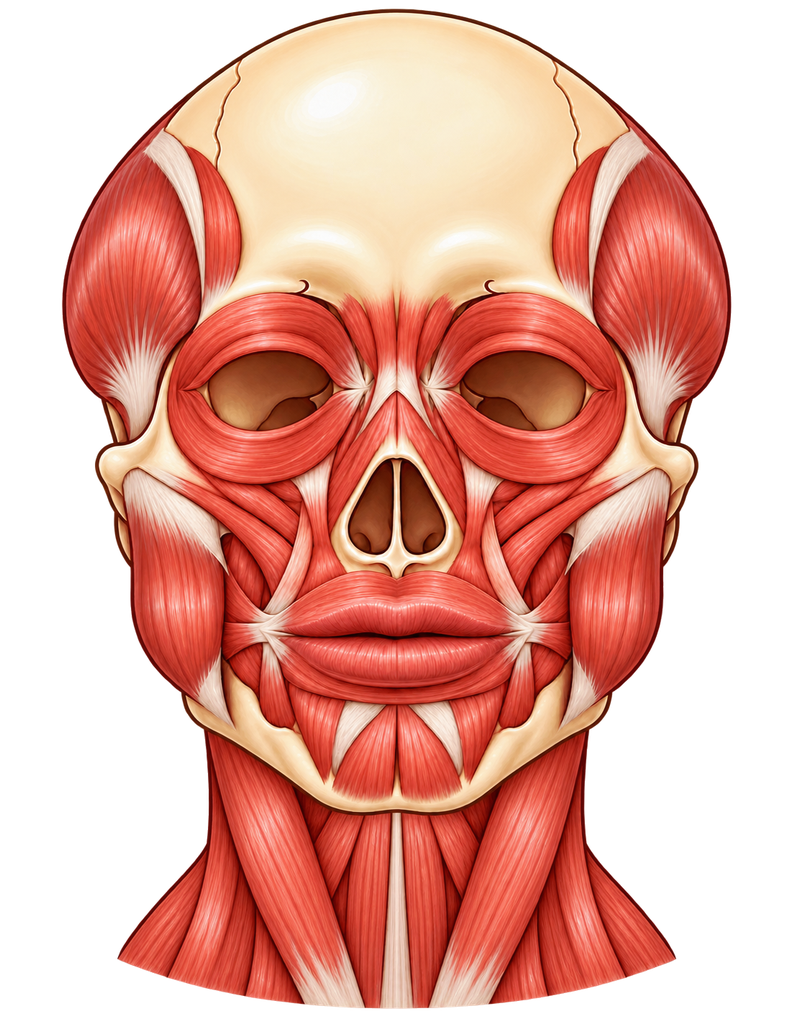
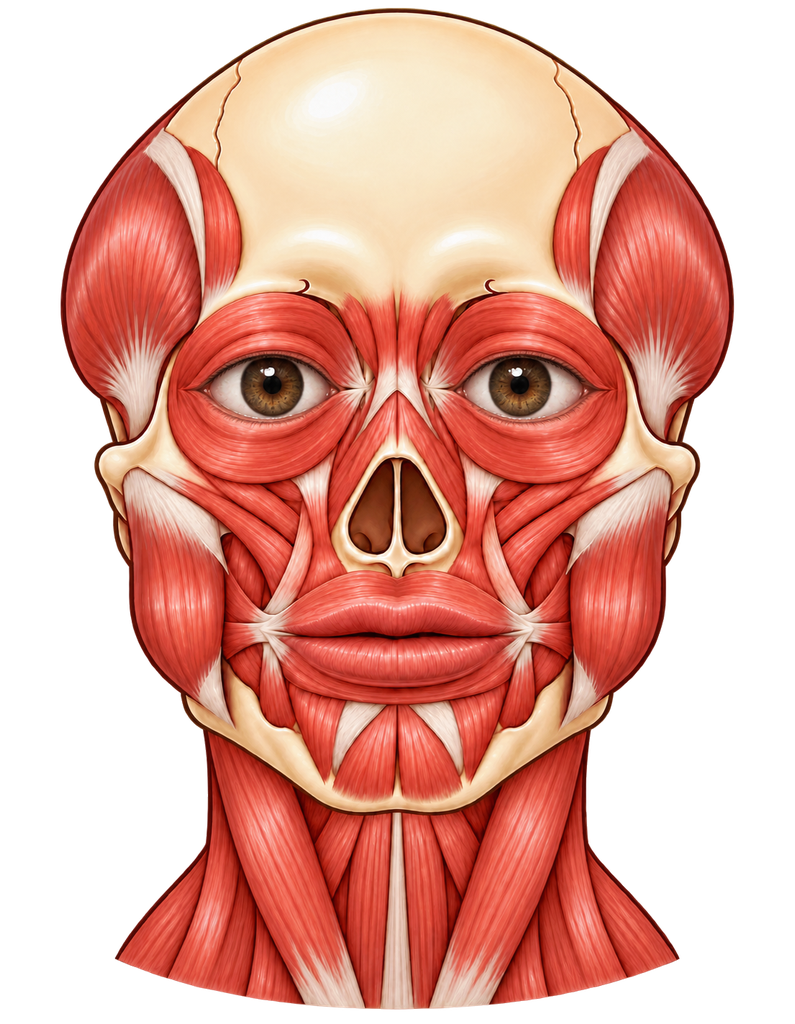
Versão 3.3: adicionar olhos ao crânio muscular

diff --git a/index.html b/index.html
@@ -3,7 +3,7 @@
 <head>
   <meta charset="utf-8">
   <meta name="viewport" content="width=device-width,initial-scale=1,viewport-fit=cover">
-  <title>Anatomia Mágica 3.2</title>
+  <title>Anatomia Mágica 3.3</title>
   <style>
     * { box-sizing: border-box; }
     body { margin: 0; background: #101827; color: #fff; font: 16px system-ui, sans-serif; }
@@ -34,7 +34,7 @@
 </head>
 <body>
   <header>
-    <div><h1>🫀 Anatomia Mágica</h1><small>Versão 3.2 · órgãos, ossos e músculos</small></div>
+    <div><h1>🫀 Anatomia Mágica</h1><small>Versão 3.3 · órgãos, ossos e músculos</small></div>
     <span id="status" role="status">Modo demonstração</span>
   </header>
   <div class="stage demo" id="stage">
@@ -102,7 +102,7 @@
     <p id="help-text">As posições são esquemáticas e aproximadas. Ao aproximar a câmera, as imagens acompanham a escala da cabeça, dos ombros ou dos quadris que estiverem visíveis. Se nenhum desses pontos for reconhecido, afaste um pouco a câmera. O app mantém a última vista quando a pessoa está de lado; se a detecção não corresponder à posição, escolha frente ou costas manualmente. A câmera é processada no aparelho.</p>
   </div>
   <script src="ossos/rig.js?v=2.0.2"></script>
-  <script src="musculos/rig.js?v=3.2"></script>
+  <script src="musculos/rig.js?v=3.3"></script>
   <script>
     const $ = selector => document.querySelector(selector);
     const stage = $('#stage');
@@ -313,7 +313,7 @@
       const entry = { image: new Image(), ready: false, error: false, crop: null };
       entry.image.onload = () => { entry.crop = imageCrop(entry.image); entry.ready = true; draw(performance.now()); };
       entry.image.onerror = () => { entry.error = true; console.error('Músculo ausente:', entry.image.src); draw(performance.now()); };
-      entry.image.src = `musculos/vistas/${region}/${viewFiles[view]}?v=3.2`;
+      entry.image.src = `musculos/vistas/${region}/${viewFiles[view]}?v=3.3`;
       muscleCache.set(key, entry);
       return entry;
     }

diff --git a/musculos/rascunhos/previsualizar.html b/musculos/rascunhos/previsualizar.html
@@ -23,11 +23,11 @@
 <body>
   <h1>Imagens musculares — prévia de trabalho</h1>
   <p>Dezoito imagens, com vista de frente e de costas para cada uma das nove regiões. O fundo quadriculado revela quais peças têm transparência suficiente para aparecer sobre a câmera.</p>
-  <div class="note">A cabeça mostra a nova peça da versão 3.2, com músculos integrados ao crânio. Os outros grupos mostram os originais gerados para a versão 3.1. O aplicativo usa cópias otimizadas em <code>musculos/vistas/</code>.</div>
+  <div class="note">A cabeça mostra a frente da versão 3.3, agora com olhos, e as costas preservadas da 3.2. Os outros grupos mostram os originais da 3.1. O aplicativo usa cópias otimizadas em <code>musculos/vistas/</code>.</div>
   <main class="grid" id="grid"></main>
   <script>
     const regions=[
-      ['rosto','Cabeça e crânio','nova peça 3.2'],
+      ['rosto','Cabeça e crânio','olhos na frente · 3.3'],
       ['torax','Tórax','transparência confirmada'],
       ['abdome','Abdome','revisar encaixe'],
       ['braco','Braço','transparência confirmada'],
@@ -45,7 +45,9 @@
       const pair=document.createElement('div');pair.className='pair';
       for(const [file,label] of [['01-frente.png','Frente'],['05-costas.png','Costas']]){
         const figure=document.createElement('figure'),img=document.createElement('img'),caption=document.createElement('figcaption');
-        img.src=folder==='rosto' ? `cranio-v3.2/${file}` : `vistas/${folder}/${file}`;
+        img.src=folder==='rosto'
+          ? (file==='01-frente.png' ? `cranio-v3.3/${file}` : `cranio-v3.2/${file}`)
+          : `vistas/${folder}/${file}`;
         img.alt=`${name}, vista de ${label.toLowerCase()}`;img.loading='lazy';caption.textContent=label;
         figure.append(img,caption);pair.append(figure);
       }

diff --git a/README.md b/README.md
@@ -4,9 +4,11 @@ Aplicativo web educativo de anatomia em realidade aumentada. Usa a câmera do ce
 
 ## Versão atual
 
-**3.2 (teste local concluído; validação com a câmera do celular pendente)**
+**3.3 (teste local concluído; validação com a câmera do celular pendente)**
 
-O arquivo `index.html` da raiz é a versão ativa. A versão 3.1 permanece preservada em `versoes/v3.1/` e no ZIP respectivo. As versões anteriores continuam disponíveis nas cópias locais em `versoes/` e `pacotes/` e no histórico do GitHub.
+O arquivo `index.html` da raiz é a versão ativa. A versão 3.2 permanece preservada em `versoes/v3.2/` e no ZIP respectivo. As versões anteriores continuam disponíveis nas cópias locais em `versoes/` e `pacotes/` e no histórico do GitHub.
+
+A versão 3.3 coloca olhos na imagem frontal do crânio muscular. A vista posterior e o posicionamento da cabeça permanecem como na 3.2.
 
 A versão 3.2 refaz a peça muscular da cabeça nas duas vistas: os músculos da face e da nuca agora aparecem sobre o crânio, com um pescoço curto ligando a peça ao tronco. O posicionamento sobre o rosto foi ajustado para incluir o topo da cabeça. As outras oito regiões musculares, os órgãos e os ossos permanecem disponíveis.
 
@@ -53,4 +55,4 @@ Para conferir os 13 órgãos e suas vistas, execute `node tests/vistas.test.cjs`
 
 A câmera é processada no próprio aparelho pelo código do navegador. O aplicativo não possui contas, login ou servidor de armazenamento de imagens.
 
-As posições anatômicas são educativas e aproximadas. O rastreamento do corpo não mede a abertura da boca nem a contração muscular; a mandíbula tem controle manual, e os músculos seguem a posição dos segmentos corporais. Ainda é preciso conferir alinhamento, escala e desempenho da versão 3.2 com câmera real em um celular. O aplicativo não é uma ferramenta médica.
+As posições anatômicas são educativas e aproximadas. O rastreamento do corpo não mede a abertura da boca nem a contração muscular; a mandíbula tem controle manual, e os músculos seguem a posição dos segmentos corporais. Ainda é preciso conferir alinhamento, escala e desempenho da versão 3.3 com câmera real em um celular. O aplicativo não é uma ferramenta médica.

diff --git a/musculos/README.md b/musculos/README.md
@@ -1,6 +1,6 @@
-# Músculos — Anatomia Mágica 3.2
+# Músculos — Anatomia Mágica 3.3
 
-O modo Músculos usa 18 ilustrações anatômicas, uma vista frontal e uma posterior para cada uma das nove regiões: cabeça, tórax, abdome, braço, antebraço, coxa, perna, mão e pé. Na versão 3.2, a peça da cabeça foi refeita para mostrar os músculos integrados ao crânio e ligados por um pescoço curto ao tronco. As imagens finais transparentes ficam em `vistas/`; os originais da cabeça estão em `rascunhos/cranio-v3.2/`, e os demais em `rascunhos/vistas/`. Abra `previsualizar.html` para comparar as duas vistas.
+O modo Músculos usa 18 ilustrações anatômicas, uma vista frontal e uma posterior para cada uma das nove regiões: cabeça, tórax, abdome, braço, antebraço, coxa, perna, mão e pé. Na versão 3.2, a peça da cabeça foi refeita para mostrar os músculos integrados ao crânio e ligados por um pescoço curto ao tronco. A versão 3.3 acrescenta olhos à vista frontal; a posterior permanece igual. As imagens finais transparentes ficam em `vistas/`; o novo original frontal está em `rascunhos/cranio-v3.3/`, as vistas anteriores da cabeça em `rascunhos/cranio-v3.2/`, e os demais originais em `rascunhos/vistas/`. Abra `previsualizar.html` para comparar as duas vistas.
 
 O arquivo `rig.js` posiciona 15 peças sobre o corpo: três peças centrais e seis pares de membros. Os pares usam as mesmas ilustrações espelhadas para o lado esquerdo e direito. Braços, antebraços, coxas e pernas acompanham ombros, cotovelos, punhos, quadris, joelhos e tornozelos reconhecidos pelo MediaPipe Pose. Mãos e pés seguem punhos e tornozelos, com auxílio dos pontos dos dedos quando disponíveis. Rosto e tronco usam as referências corporais visíveis, inclusive em closes.
 

diff --git a/VERSOES.md b/VERSOES.md
@@ -131,9 +131,15 @@ Se uma versão nova apresentar erro, restaure o `index.html` da última pasta es
 - Os originais das ilustrações foram preservados em `musculos/rascunhos/`; as cópias transparentes otimizadas para o aplicativo estão em `musculos/vistas/`.
 - Prévia e testes locais confirmaram as 18 imagens, as duas vistas, o movimento dos membros, os closes e os modos anteriores. A escala final com câmera real ainda precisa de conferência no celular.
 
-### 3.2 — versão ativa; validação no celular pendente
+### 3.2 — preservada; validação no celular pendente
 
 - Refeita a peça muscular da cabeça de frente e de costas: músculos da face e da nuca foram integrados ao crânio, com pescoço curto nas duas vistas.
 - Ajustados altura e posição da peça para mostrar o topo do crânio e aproximar o pescoço do tórax, inclusive na demonstração e nos closes.
 - As imagens originais novas foram preservadas em `musculos/rascunhos/cranio-v3.2/`; as duas imagens otimizadas substituíram apenas a peça da cabeça em `musculos/vistas/rosto/`.
 - Os demais músculos, os 13 órgãos e os 16 ossos seguem separados em seus modos. Testes locais passaram; o encaixe com câmera real ainda precisa ser conferido no celular.
+
+### 3.3 — versão ativa; validação no celular pendente
+
+- Inseridos olhos castanhos nas órbitas da peça muscular frontal da cabeça, preservando crânio, músculos faciais e pescoço. A vista posterior não mudou.
+- O original gerado foi salvo em `musculos/rascunhos/cranio-v3.3/`; a imagem frontal otimizada substituiu apenas `musculos/vistas/rosto/01-frente.png`.
+- Atualizados o número exibido no site, a prévia e o endereço da imagem para evitar cópia antiga no cache. Os outros órgãos, ossos e músculos não foram alterados.

diff --git a/musculos/rascunhos/REVISAO.md b/musculos/rascunhos/REVISAO.md
@@ -4,6 +4,8 @@ As 18 imagens deste diretório são os originais gerados por IA para as nove reg
 
 Na versão 3.2, a região da cabeça foi refeita. As novas vistas e uma alternativa frontal sem pescoço estão em `cranio-v3.2/`. As vistas antigas da cabeça continuam preservadas em `vistas/rosto/` para comparação e restauração.
 
+Na versão 3.3, apenas a frente ganhou olhos. O novo original está em `cranio-v3.3/01-frente.png`; a vista posterior é a mesma da 3.2.
+
 As cópias utilizadas pelo aplicativo ficam em `musculos/vistas/`. Nelas, os pixels invisíveis foram zerados e a resolução foi reduzida sem alterar o desenho muscular; o tamanho total passou de aproximadamente 35 MB para 13 MB.
 
 O encaixe das peças no corpo foi conferido em uma composição estática de frente e costas. A escala sobre uma pessoa real ainda deve ser testada no celular.
